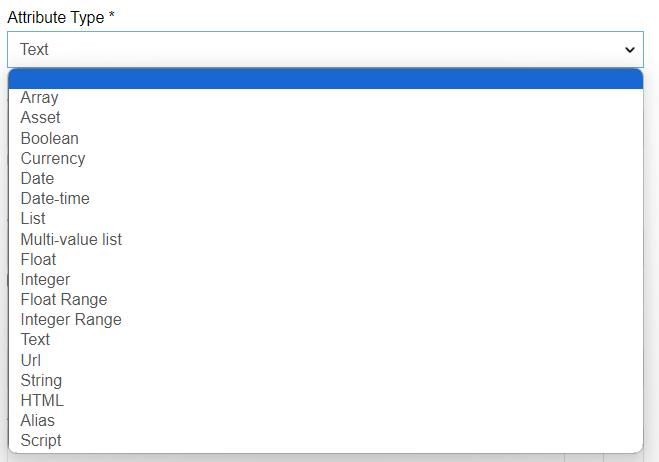
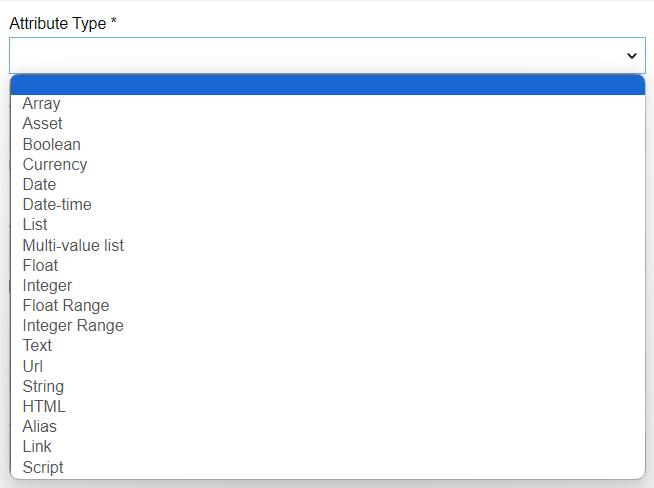
link attribute

Changed region(s): [[0.0, 0.0303, 1.0, 1.0], [0.948, 0.4545, 1.0, 1.0], [0.9786, 0.3636, 1.0, 0.3939]]

diff --git a/atropim/user-guide/attributes.md b/atropim/user-guide/attributes.md
@@ -54,6 +54,7 @@ Attributes are automatically validated according to their type. The following at
 | HTML                      | Text area for long multiline texts that contains a built-in text editor   |
 | Asset			           | File attachment  |
 | Alias			           | displays the value of another attribute(s) linked to it |
+| Link			           | Reference to any other entity |
 | Script                      | a dynamic attribute that can have different data types and display the value of any field or attribute configured in the field of type Twig  |
 
 ## Creating
@@ -187,6 +188,13 @@ Enter the measure name and code (by default, this field is optional) and click t
 ![create-unit-pop-up](./_assets/attributes/create-unit-popup.png)
 
 You can create a unit from the measure entity, or vice versa: go to the Unit entity, create a new unit via the "Create Unit" button and choose the measure to which you want to add it. In the "Convert to" field, you can choose the units of measurement to which the current unit should be converted. A default unit can be selected for both the measure and the attribute to which the measure is added.
+
+## Attribute of type link
+
+The link type attribute allows you to add any field of another entity to the product as a link. By clicking on the value of this attribute, you can go to the entity whose field it refers to. When creating an attribute of type link, you need to select the entity to which it refers and its field, which should be displayed as the attribute value.
+
+![link-attribute](./_assets/attributes/link-attribute.png)
+
 
 ## Attribute of script type
 
